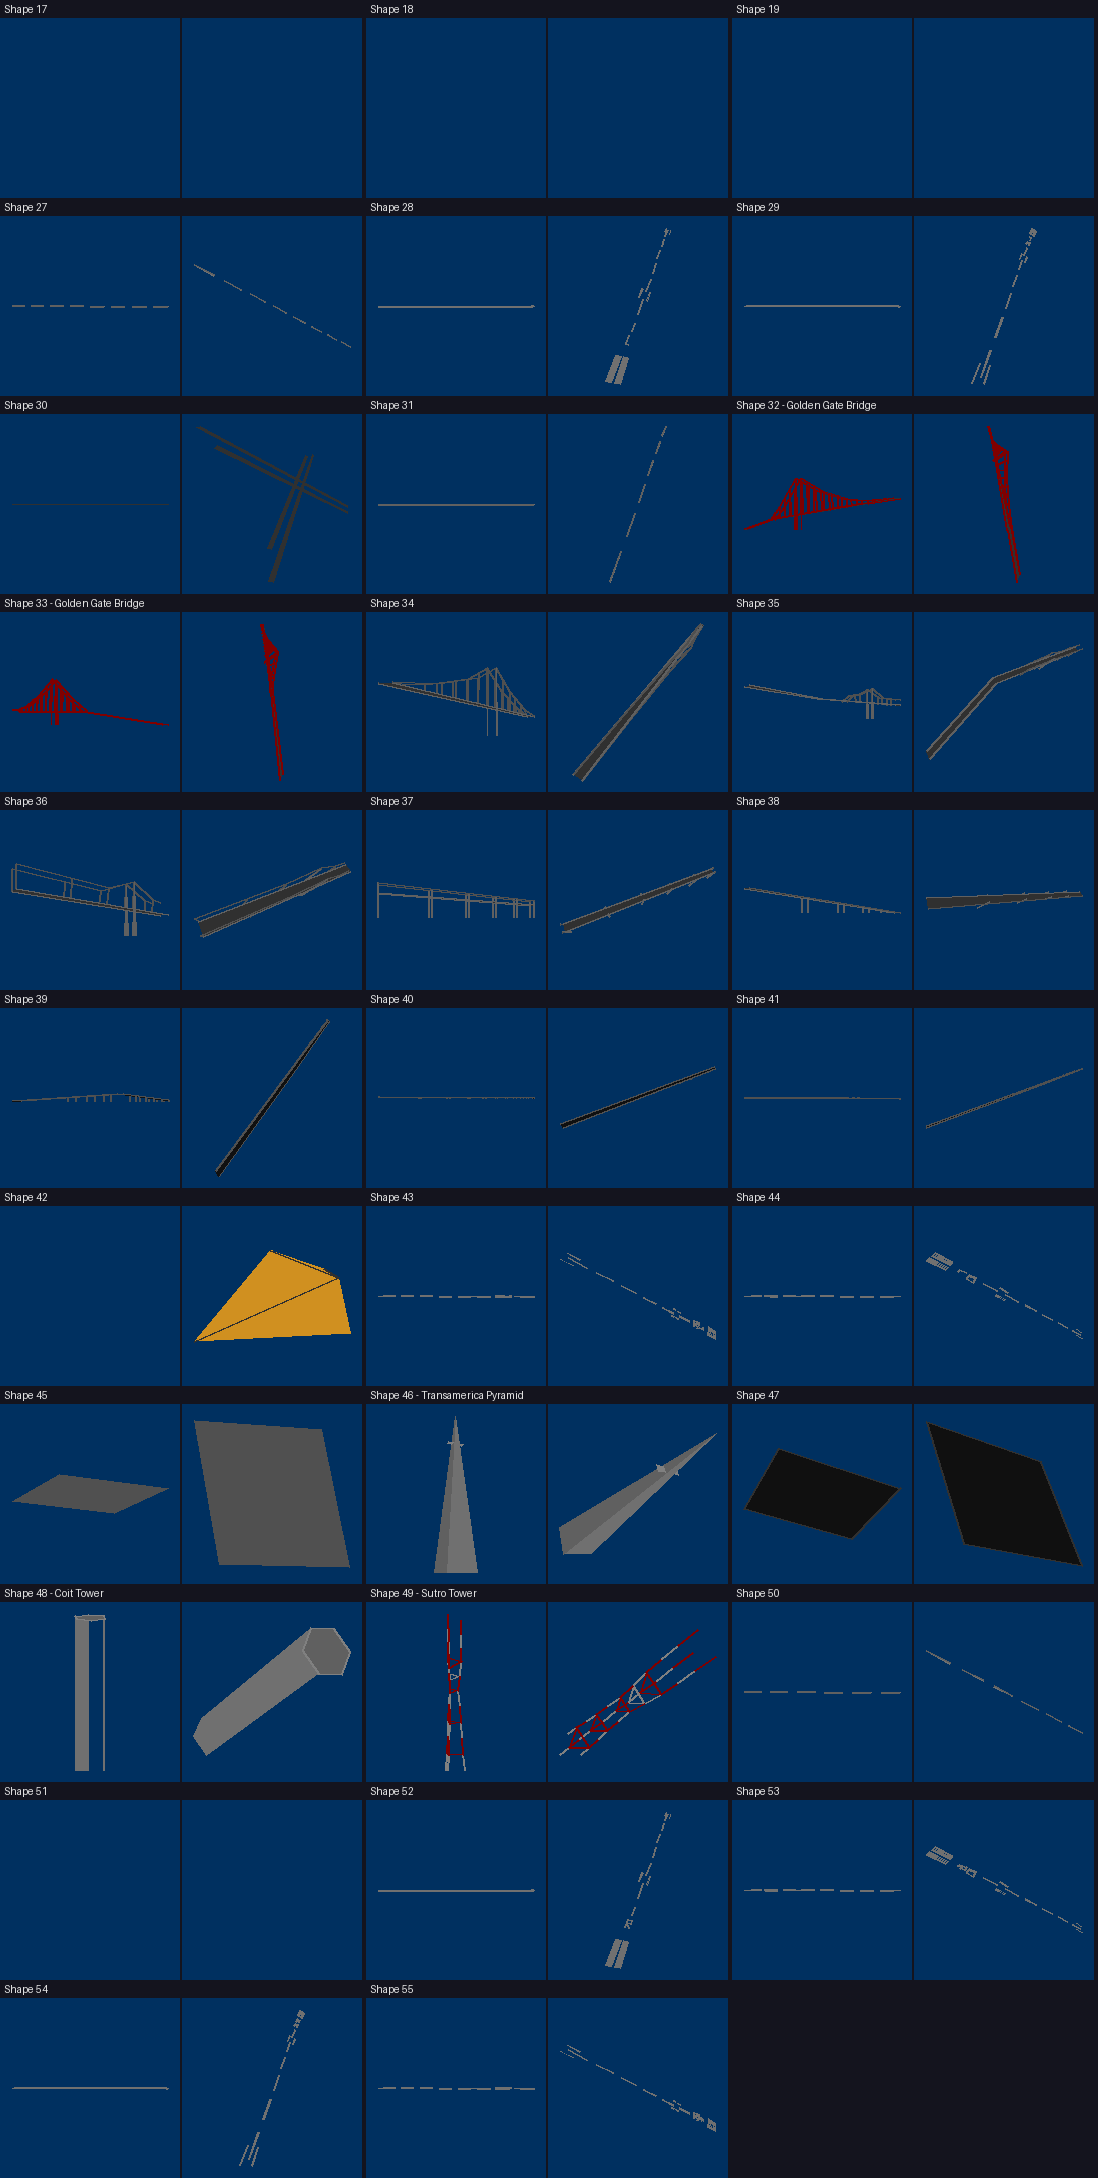
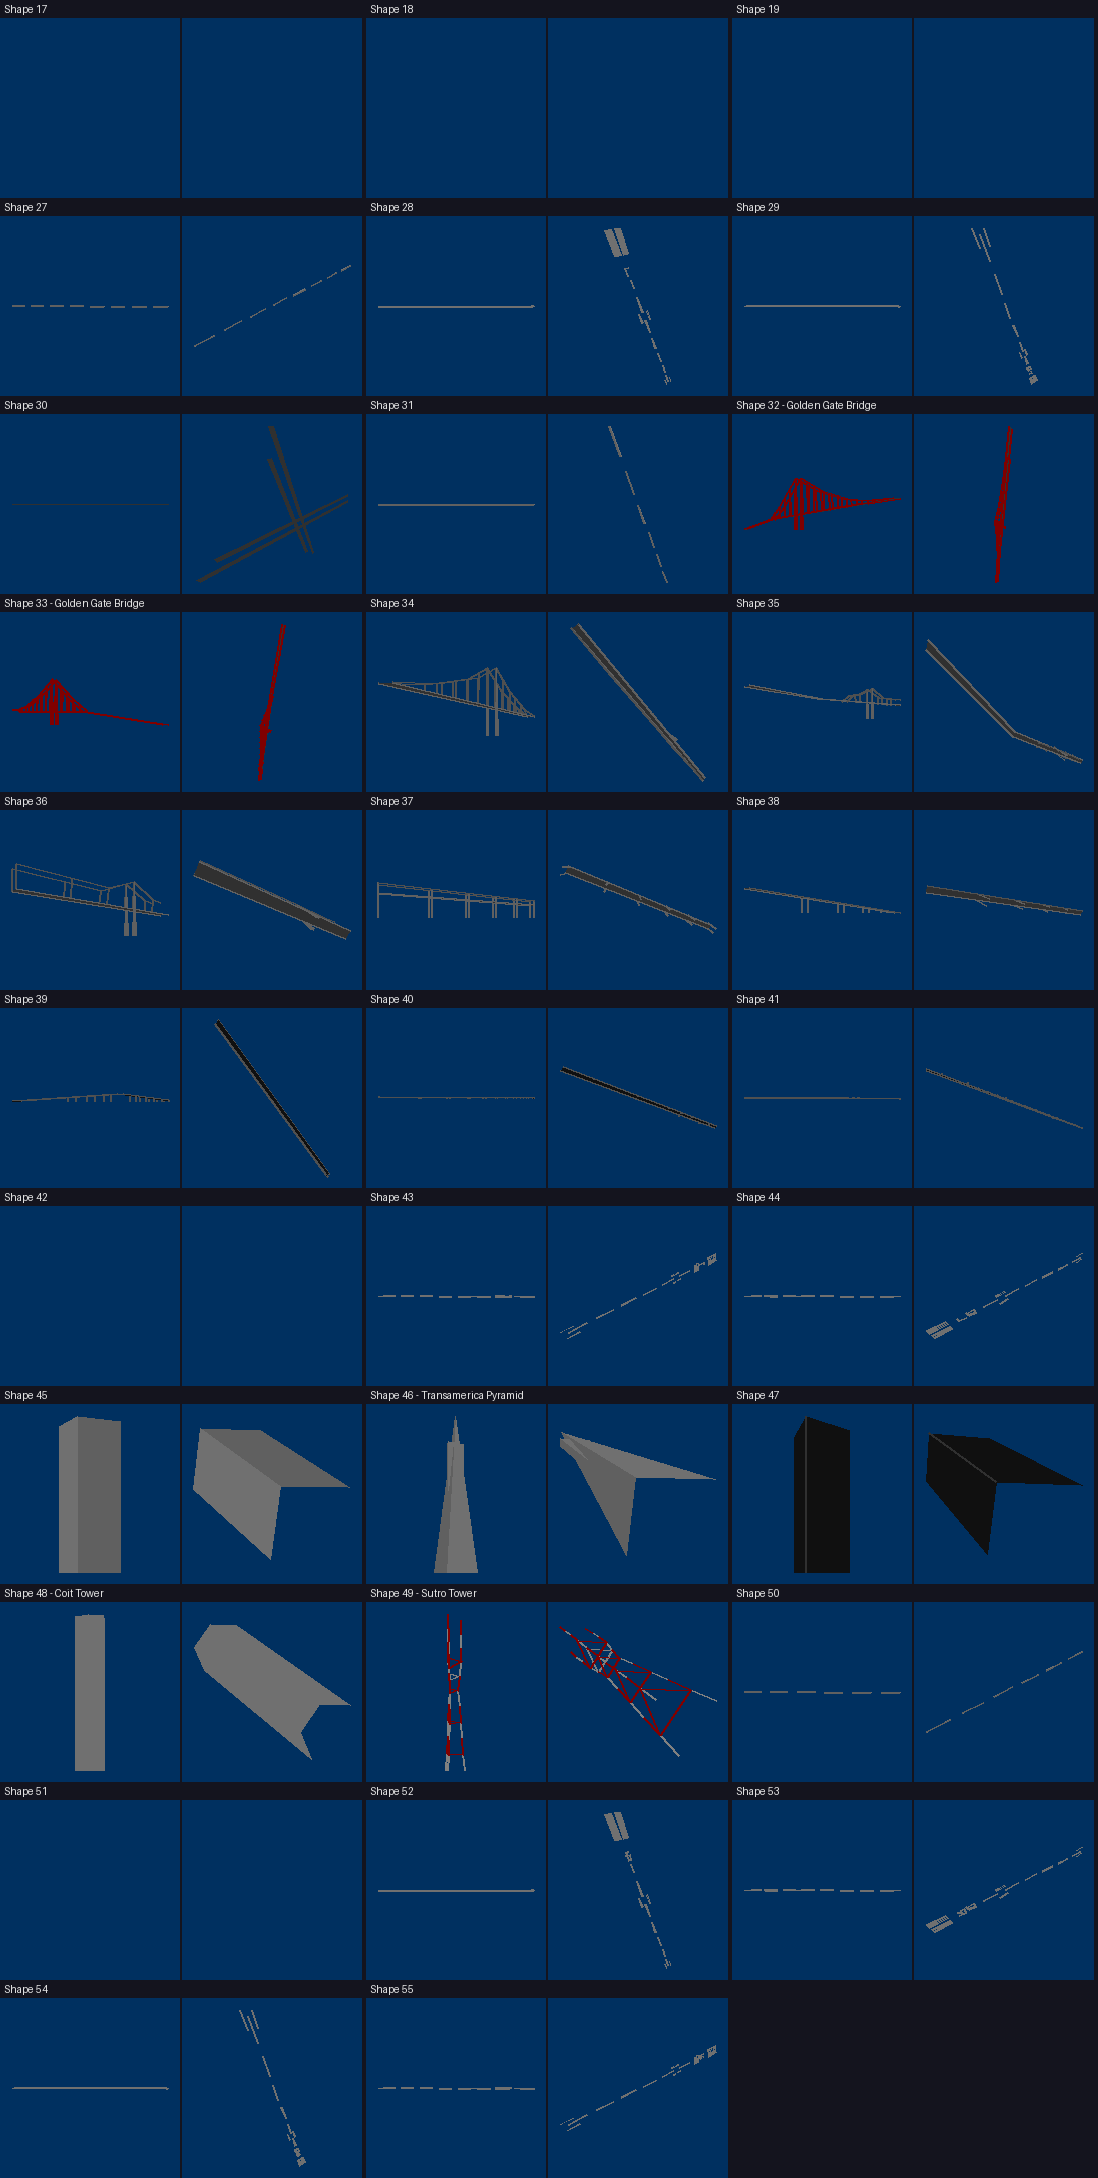
In-game views drawn by the game itself; model picture fixes
- scene.py / views.py: run the game's set-up (ResetGame, SetupMode, the
  aircraft at a start point) and the 3D stages of a frame in the
  emulator, capturing the polygons, lines and points after the game's own
  clipping and projection: views of the runways, the carrier's deck, the
  airfield, the Bay Bridge, the Golden Gate and Sutro Tower.
- Fixed: the emulator kept the first translated trampoline (each call ran
  the first routine again); the drawing lists' plane tests now get the
  camera's position (Coit Tower's missing face); routines get a frame.
- $F0 is the submarine (hunk 53 renamed h053_code_model_submarine.s).
- GAME.md: height is positive upwards (shown by the game's own frames).

Claude-Session: https://claude.ai/code/session_01LbtcUWy6kWuYz7Xe3kf583

diff --git a/original/tools/models/scene.py b/original/tools/models/scene.py
@@ -1,0 +1,109 @@
+"""Draw a whole view as the game does: set up a flight in the emulator with the game's own
+routines, run the 3D stages of a frame, and capture what reaches the screen - the filled
+polygons (after clipping and projection, from dat_072_03000), the lines (DrawLine) and the points
+(Plot...) - in screen coordinates. Then paint them, in order, into a 320 x 180 picture.
+
+scene.py [START [HEADING [PITCH [OUT]]]]   START a StartPoints entry (0-4), HEADING in degrees."""
+import sys
+from PIL import Image, ImageDraw
+from unicorn.m68k_const import *
+import drawmodel as dm, render
+
+g = dm.g
+OUT = []
+for name in ('sub_019_00018', 'sub_035_001DA', 'PlotPoint3D'):   # let the game draw these itself
+    g.hooks.pop(g[name], None)
+
+
+def reg(r):
+    v = g.reg(r) & 0xFFFF
+    return v - 0x10000 if v & 0x8000 else v
+
+
+def cap_fill(gm):
+    a = gm['dat_072_03000']
+    n = gm.w(a)
+    OUT.append(('poly', gm.uw(gm['DrawColour']), [(gm.w(a + 2 + i * 4), gm.w(a + 4 + i * 4)) for i in range(n)]))
+    return 0
+
+
+def cap_line(gm):
+    OUT.append(('line', gm.uw(gm['DrawColour']),
+                [(reg(UC_M68K_REG_D0), reg(UC_M68K_REG_D1)), (reg(UC_M68K_REG_D2), reg(UC_M68K_REG_D3))]))
+    return 0
+
+
+def cap_point(size):
+    def f(gm):
+        OUT.append(('point%d' % size, gm.uw(gm['DrawColour']), [(reg(UC_M68K_REG_D0), reg(UC_M68K_REG_D1))]))
+        return 0
+    return f
+
+
+g.hook('sub_036_00AB8', cap_fill)
+g.hook('DrawLine', cap_line)
+g.hook('Plot', cap_point(1))
+g.hook('Plot2', cap_point(2))
+g.hook('PlotBig', cap_point(2))
+
+SETUP = ('BuildSceneryBits', 'ResetGame', 'SetupMode', 'sub_004_00268', 'sub_004_00392')
+FRAME = ('UpdateViewCell', 'SetupCamera', 'sub_008_00286', 'sub_020_00738', 'sub_000_043F2',
+         'sub_008_00598', 'sub_020_007EA', 'ClearRadarList', 'sub_033_00010', 'sub_028_00B9C',
+         'sub_033_003CE', 'sub_008_0084C', 'sub_008_0085E', 'sub_025_00000', 'sub_023_00000',
+         'DrawObjects', 'sub_000_072DC')
+
+
+def run(names, verbose=False):
+    for n in names:
+        try:
+            g.call(n, limit=30_000_000)
+        except Exception as e:
+            print('error in', n, e)
+
+
+def view(start=0, heading=None, pitch=None, mode=1):
+    run(SETUP[:2])
+    g.setb(g['GameMode'], mode)
+    g.setb(g['StartPoint'], start)
+    run(SETUP[2:])
+    rec = g['ObjectTable']
+    if heading is not None or pitch is not None:
+        h = g.w(rec + 0x68) if heading is None else int(heading * 80) % 0x7080
+        p = g.w(rec + 0x66) if pitch is None else int(pitch * 80)
+        g.setw(rec + 0x66, p); g.setw(rec + 0x68, h)
+        g.call('SetAttitude', {UC_M68K_REG_A1: rec, UC_M68K_REG_D4: p % 0x7080, UC_M68K_REG_D5: h, UC_M68K_REG_D6: 0})
+    OUT.clear()
+    run(FRAME)
+    return list(OUT)
+
+
+def paint(prims, scale=3, horizon=None):
+    """The sky and the ground behind are the copper's work (colour 0 changed down the screen),
+    not drawn: they are filled in here at the horizon's height."""
+    pal = render.palette()
+    im = Image.new('RGB', (320 * scale, 180 * scale), (96, 128, 192))
+    d = ImageDraw.Draw(im)
+    if horizon is not None:
+        d.rectangle([0, horizon * scale, 320 * scale, 180 * scale], fill=pal[4])
+    for kind, col, ps in prims:
+        c = pal[col & 15]
+        xy = [((x + 0.5) * scale, (y + 0.5) * scale) for x, y in ps]
+        if kind == 'poly' and len(xy) >= 3:
+            d.polygon(xy, fill=c)
+        elif kind == 'line':
+            d.line(xy, fill=c, width=scale)
+        else:
+            w = scale * (2 if kind == 'point2' else 1)
+            for x, y in xy:
+                d.rectangle([x - scale / 2, y - scale / 2, x - scale / 2 + w - 1, y + scale / 2 - 1], fill=c)
+    return im
+
+
+if __name__ == '__main__':
+    a = sys.argv[1:]
+    prims = view(int(a[0]) if a else 0, float(a[1]) if len(a) > 1 and a[1] else None, float(a[2]) if len(a) > 2 and a[2] else None)
+    print(len(prims), 'drawn')
+    rec = g['ObjectTable']
+    import math
+    hz = 90 - 90 * math.tan(g.w(rec + 0x66) / 80 * math.pi / 180)
+    paint(prims, horizon=hz).save(a[3] if len(a) > 3 else 'out/scene.png')

diff --git a/original/tools/models/views.py b/original/tools/models/views.py
@@ -1,0 +1,50 @@
+"""In-game views: the game's own frame drawn in the emulator (scene.py) from chosen places.
+
+views.py            the views used in docs/MODELS.md, into out/view_*.png"""
+import math, sys
+from unicorn.m68k_const import *
+import scene
+
+g = scene.g
+
+
+def fly(start=0, cell=None, height=None, heading=None, pitch=0.0):
+    """A free flight from StartPoints entry `start`, then moved to map cell `cell` (x, z) at
+    `height` (positive upwards), facing `heading` degrees, pitched `pitch` degrees; one frame
+    is run to build the scenery lists and a second one drawn."""
+    scene.run(scene.SETUP[:2])
+    g.setb(g['GameMode'], 1)
+    g.setb(g['StartPoint'], start)
+    scene.run(scene.SETUP[2:])
+    rec = g['ObjectTable']
+    if cell is not None:
+        g.setw(rec + 6, cell[0]); g.setw(rec + 8, cell[1])
+        g.setl(rec + 0x14, (cell[0] << 22) | 0x200000)
+        g.setl(rec + 0x1C, (cell[1] << 22) | 0x200000)
+    if height is not None:
+        g.setl(rec + 0x18, height)
+    if heading is not None:
+        g.call('SetAttitude', {UC_M68K_REG_A1: rec, UC_M68K_REG_D4: int(pitch * 80) % 0x7080,
+                               UC_M68K_REG_D5: int(heading * 80) % 0x7080, UC_M68K_REG_D6: 0})
+    scene.run(scene.FRAME)
+    scene.OUT.clear()
+    scene.run(scene.FRAME)
+    hz = 90 + 90 * math.tan(g.w(rec + 0x66) / 80 * math.pi / 180) if g.w(rec + 0x66) < 0x3840 else \
+        90 - 90 * math.tan((0x7080 - g.w(rec + 0x66)) / 80 * math.pi / 180)
+    return scene.paint(list(scene.OUT), horizon=hz)
+
+
+VIEWS = [
+    ('runway', 'On the runway at the first free-flight start', dict(start=0)),
+    ('runway2', 'The third free-flight start', dict(start=2)),
+    ('carrier', 'On the carrier\'s deck', dict(start=3)),
+    ('airfield', 'Over the airfield', dict(start=0, height=0x20000, heading=0)),
+    ('baybridge', 'The Bay Bridge, from the south', dict(cell=(65, 69), height=0x10000, heading=45)),
+    ('goldengate', 'Towards the Golden Gate, over the city', dict(cell=(66, 69), height=0x18000, heading=330)),
+    ('sutro', 'The city and Sutro Tower', dict(cell=(66, 69), height=0x30000, heading=135)),
+]
+
+if __name__ == '__main__':
+    for name, title, kw in VIEWS:
+        fly(**kw).save('out/view_%s.png' % name)
+        print(name)

diff --git a/original/tools/models/drawmodel.py b/original/tools/models/drawmodel.py
@@ -49,7 +49,7 @@ def rot(yaw, pitch, roll):
     return mul(mul(Ry, Rx), Rz)
 
 
-def draw(entry, yaw=0.6, pitch=0.35, roll=0.0, dist=0x40000, lod=16, obj=1, model=None):
+def draw(entry, yaw=0.6, pitch=0.35, roll=0.0, dist=0x40000, lod=16, obj=1, model=None, shift=0):
     """Draws ObjectDrawTable entry `entry` (or ModelTable offset `model`, copied into object
     `obj`'s entry) as object `obj`; returns the captured primitives."""
     OUT.clear()
@@ -76,7 +76,9 @@ def draw(entry, yaw=0.6, pitch=0.35, roll=0.0, dist=0x40000, lod=16, obj=1, mode
     for v in ('dat_071_00500', 'dat_071_00504', 'dat_071_00508', 'dat_071_0050C'):
         if v in g.sym: g.setl(g[v], 0)
     g.setl(g['dat_071_0050C'], py)            # the height offset the drawing uses
-    g.setw(g['dat_071_00488'], 0)
+    if shift is None:                         # as the game: DistanceScale by the distance
+        shift = g.b(g['DistanceScale'] + min(dist >> 13, 0xEF))
+    g.setw(g['dat_071_00488'], shift)
     g.setw(g['dat_071_00510'], lod)
     g.setb(g['dat_071_001AD'], 1)
     g.setb(g['dat_071_0023C'], 1)
@@ -86,7 +88,11 @@ def draw(entry, yaw=0.6, pitch=0.35, roll=0.0, dist=0x40000, lod=16, obj=1, mode
     g.setw(g['ViewObject'], 0)
     g.setl(g['ShapeNow'], now)
     g.setl(g['ShapeNext'], nxt)
-    g.setl(g['dat_071_00448'], -0x1000)
+    # the camera's position against the object, /256: the plane tests of the drawing lists use it
+    g.setw(g['dat_071_00442'], px >> 8); g.setw(g['dat_071_00442'] + 2, py >> 8); g.setw(g['dat_071_00446'], pz >> 8)
+    g.setl(g['dat_071_00448'], py >> 8)
+    for k in range(3):
+        g.setw(g['dat_071_004FA'] + 2 * k, 0)
     if routine == g['DrawModel']:
         routine = g['DrawSceneryPlain']     # the same, without the own-aircraft checks
     g.call(routine, {UC_M68K_REG_A0: mbase})

diff --git a/original/tools/models/scenery.py b/original/tools/models/scenery.py
@@ -1,0 +1,45 @@
+"""Read the scenery maps (hunk 66) from the loaded game: the items of each map cell."""
+import drawmodel as dm
+
+g = dm.g
+PLACES = [(-32 if b == 0xE0 else -96 if b == 0xA0 else 96 if b == 0x60 else 32) for b in
+          g.uc.mem_read(g['dat_008_015EE'], 32)]
+
+
+def cells(mapname='SceneryMap2'):
+    """{(x, z): [(subcell, shape, dx, dz)]} for every cell of the map."""
+    base = g[mapname]
+    out = {}
+    for row in range(128):
+        a0 = base + g.w(base + row * 2)
+        n = g.w(a0)
+        if n < 0:
+            continue
+        cols = [g.w(a0 + 2 + k * 2) for k in range(n // 2)]
+        ptab = a0 + n + 2
+        for i, col in enumerate(cols):
+            p = g.l(ptab + i * 4) & 0xFFFFFF
+            items = []
+            while True:
+                h = g.b(p); p += 1
+                if h == 0xFF:
+                    break
+                s = g.b(p); p += 1
+                if s & 0x80:
+                    k = (h >> 4) & 15
+                    dx, dz = PLACES[k * 2], PLACES[k * 2 + 1]
+                else:
+                    dx, dz = g.w(p), g.w(p + 2); p += 4
+                items.append((h & 15, s & 0x7F, dx, dz))
+            out[(col, row)] = items
+    return out
+
+
+if __name__ == '__main__':
+    import sys
+    from collections import Counter
+    c = cells(sys.argv[1] if len(sys.argv) > 1 else 'SceneryMap2')
+    print(len(c), 'cells')
+    for k in sorted(c, key=lambda k: -len(c[k]))[:15]:
+        print(k, len(c[k]), sorted(Counter(i[1] for i in c[k]).items()))
+    print([i for i in c[sorted(c, key=lambda k: -len(c[k]))[0]]][:12])

diff --git a/original/tools/models/f18emu.py b/original/tools/models/f18emu.py
@@ -88,7 +88,9 @@ class Game:
         sp = 0x7FF0
         start = self.sym[name] if isinstance(name, str) else name
         self.uc.mem_write(TRAMP, b'\x4e\xb9' + struct.pack('>I', start) + b'\x4e\x71\x4e\x71')
+        self.uc.ctl_remove_cache(TRAMP, TRAMP + 16)  # the trampoline changes: drop its old translation
         self.uc.reg_write(UC_M68K_REG_A7, sp)
+        self.uc.reg_write(UC_M68K_REG_A6, 0x6F00)    # a frame for routines that use their caller's locals
         for r, v in (regs or {}).items():
             self.uc.reg_write(r, v & 0xFFFFFFFF)
         try:

diff --git a/original/tools/models/gallery.py b/original/tools/models/gallery.py
@@ -10,7 +10,7 @@ os.makedirs(OUT, exist_ok=True)
 
 MODELS = [(0x00, 'Sidewinder'), (0x14, 'AMRAAM'), (0x28, 'Pilot and parachute'), (0x3C, 'F-16'),
           (0x50, 'F/A-18'), (0x64, 'Air Force One'), (0x78, 'MiG'), (0xA0, 'Aircraft carrier'),
-          (0xC8, 'Cruise missile'), (0xDC, 'Rescue pod (box) on parachute'), (0xF0, 'Ship (F6, object 15)'),
+          (0xC8, 'Cruise missile'), (0xDC, 'Rescue pod (box) on parachute'), (0xF0, 'Submarine (F6, object 15)'),
           (0x118, 'Airliner (707/767)')]
 
 

diff --git a/original/tools/models/gallery2.py b/original/tools/models/gallery2.py
@@ -21,7 +21,7 @@ def build(entries, path, cols=3):
     d = ImageDraw.Draw(im)
     for i, (n, label) in enumerate(entries):
         x, y = (i % cols) * cw, (i // cols) * ch
-        for k, (yaw, pitch) in enumerate(((0.45, 0.0), (0.45, -1.25))):
+        for k, (yaw, pitch) in enumerate(((0.45, 0.0), (0.45, 1.25))):
             p = '%s/s%03d_%d.png' % (OUT, n, k)
             if not os.path.exists(p):
                 gallery.one('s', n, yaw, pitch, 0, p)

diff --git a/original/docs/MODELS.md b/original/docs/MODELS.md
@@ -1,5 +1,7 @@
 # The 3D models and scenery, drawn
 
+![On the runway, from the game's own frame](images/view_runway.png)
+
 These pictures were made by running the game's own drawing code. `tools/models/` loads the
 assembled executable into a 68000 emulator ([unicorn](https://www.unicorn-engine.org/)), sets up
 an object and a camera, and calls the game's draw routine for a model (`DrawModel`, hunk 10).
@@ -23,6 +25,12 @@ The first version of these pictures had faults, since corrected:
   scenery uses that entry.
 * Shapes that reached behind the camera were drawn without clipping.
 * The pictures were mirrored.
+* Faces were missing from some shapes, such as Coit Tower's front. The drawing lists' plane
+  tests compare the camera's position against the shape (`dat_071_00442`-`00448`), and the tool
+  had not set it.
+* The emulator kept the first routine it was asked to run and ran it again for later calls.
+  It translates code once and keeps it, and the tool rewrote its call in place without
+  flushing it.
 
 The pictures were made this way:
 
@@ -54,7 +62,10 @@ Notes on the models:
 * The carrier has a dark flight deck, the angled deck stepped along one side, the island and a
   hull under part of the deck.
 * One airliner model serves as Air Force One, the 707 and the 767.
-* `$F0`, object 15 of mission F6, is a ship like the carrier.
+* `$F0`, object 15 of mission F6, is the submarine: a long dark hull with its sail. It is the
+  shadow sub of the Carrier Sub mission, not a ship as first thought.
+
+![The submarine](images/submarine.png)
 * `$DC` is a box under a parachute: the rescue pod of mission F4. Its frames show the canopy
   opening, then the box on the ground.
 * The cruise missile (`$C8`) is drawn with lines, like the Sidewinder and the AMRAAM. Its
@@ -76,11 +87,17 @@ Some can be recognised:
 * the Golden Gate Bridge in two halves (32, 33, red);
 * the Bay Bridge and the bay's other bridges and causeways, in sections (34-41);
 * the Transamerica Pyramid (46);
-* Coit Tower (48);
+* Coit Tower (48), a column with its top;
 * Sutro Tower (49, red and white);
 * airfield control towers (86, 87).
 
-Most of the rest are runway and taxiway markings, drawn as lines. They include the runways'
+Most of the rest are pieces that only make sense put together:
+
+* runway and taxiway markings, drawn as lines, and runway numbers;
+* building blocks;
+* the orange hills (42).
+
+The scenery maps place them, so the in-game views below show what they make. They include the runways'
 numbers (for example 64, 65).
 
 Some shapes are not shown:
@@ -89,6 +106,42 @@ Some shapes are not shown:
 * The shapes drawn by hunk 12's own renderer (`DrawGroundShape`: 20-26, 82-85, 89, 90 and 93-116,
   mostly hunk 70) are not captured yet. Their output does not go through the routines the tool
   hooks.
+
+## In the game
+
+`scene.py` goes further and runs the game itself in the emulator. It runs the game's own set-up
+routines:
+
+* `ResetGame`;
+* `SetupMode` for a free flight;
+* the routine that places the aircraft at a starting point.
+
+Then it runs the 3D stages of a frame (`UpdateViewCell`, `SetupCamera`, the scenery lists,
+`DrawObjects`...), twice. It captures what reaches the screen: the filled polygons after the
+game's clipping and projection, the lines and the points. They are painted in order, in screen
+coordinates, so these are the game's own frames.
+
+There are two exceptions. The sky and the ground behind everything come from the copper (colour
+0 changed down the screen), not from drawing, so they are filled in at the horizon. The cockpit
+is left out.
+
+![On the runway](images/view_runway.png)
+![The third start: the runway's threshold](images/view_runway2.png)
+![On the carrier's deck](images/view_carrier.png)
+![Over the airfield](images/view_airfield.png)
+![The Bay Bridge](images/view_baybridge.png)
+![Towards the Golden Gate, over the city](images/view_goldengate.png)
+![The city's hills and Sutro Tower](images/view_sutro.png)
+
+The ground is drawn in the colours of the land, the water (the bay), the city (grey) and the
+hills (orange). The scenery maps' pieces become the airfields with their runways and control
+tower, the bridges and the city.
+
+Some places:
+
+* the free flight starts in map cell (65, 66) on an airfield;
+* the city around (65-66, 69);
+* the Golden Gate Bridge in cell (66, 70).
 
 ## Making the pictures
 
@@ -99,6 +152,8 @@ python3 gallery.py models          # out/models.png
 python3 gallery2.py x              # out/scenery_a.png, out/scenery_b.png
 python3 one.py m 0x50 2.5 0.45 out/fa18.png 0 480   # one model: m + ModelTable offset
 python3 one.py s 33 0.45 0.0 out/gg.png 0 480        # one scenery shape: s + entry
+python3 scene.py 3 "" "" out/carrier.png              # the game's frame at a start point
+python3 views.py                                      # the views above, into out/
 ```
 
 The tool assembles the source with its labels first (`vasmm68k_mot` must be on the path), so

diff --git a/original/docs/GAME.md b/original/docs/GAME.md
@@ -123,7 +123,8 @@ record holds (see the header above `ObjectTable` for all that is known):
 * what has happened to it (`+$20`): bit 1 destroyed, bit 6 its signature confirmed (seen up
   close, so the radar's readout names it), bit 7 hit by the player;
 * its position: a map cell (`+$06` X, `+$08` Z) and a 32-bit position (`+$14` X, `+$18` Y, `+$1C` Z)
-  whose low 22 bits are the position inside the cell; Y is height, negative upwards;
+  whose low 22 bits are the position inside the cell; Y is height, positive upwards (`$708` on
+  a runway; the game's own frame, drawn in the emulator, shows this);
 * its velocity (`+$3E`, `+$42`, `+$46`) and speed (`+$6C`, `+$6E`);
 * its attitude: pitch, heading, roll (`+$66`, `+$68`, `+$6A`) and two rotation matrices made from
   them (`+$80`, and `+$92` from the negated angles, whose third column is the nose's direction);
@@ -321,7 +322,7 @@ emulator, are in [`MODELS.md`](MODELS.md).
   | `$A0`, `$B4` | the carrier (always object 14) | 52 |
   | `$C8` | the cruise missile | 55 |
   | `$DC` | the rescue pod: a box under a parachute (animated) | 58 |
-  | `$F0` | a ship like the carrier (object 15 of F6) | 53 |
+  | `$F0` | the submarine (object 15 of F6, the shadow sub) | 53 |
 
 * **A model** (`DrawModel`, hunk 10) starts with a list choosing the shape by distance - the
   levels of detail: distance words (bits 0-13) compared with the object's distance, with
